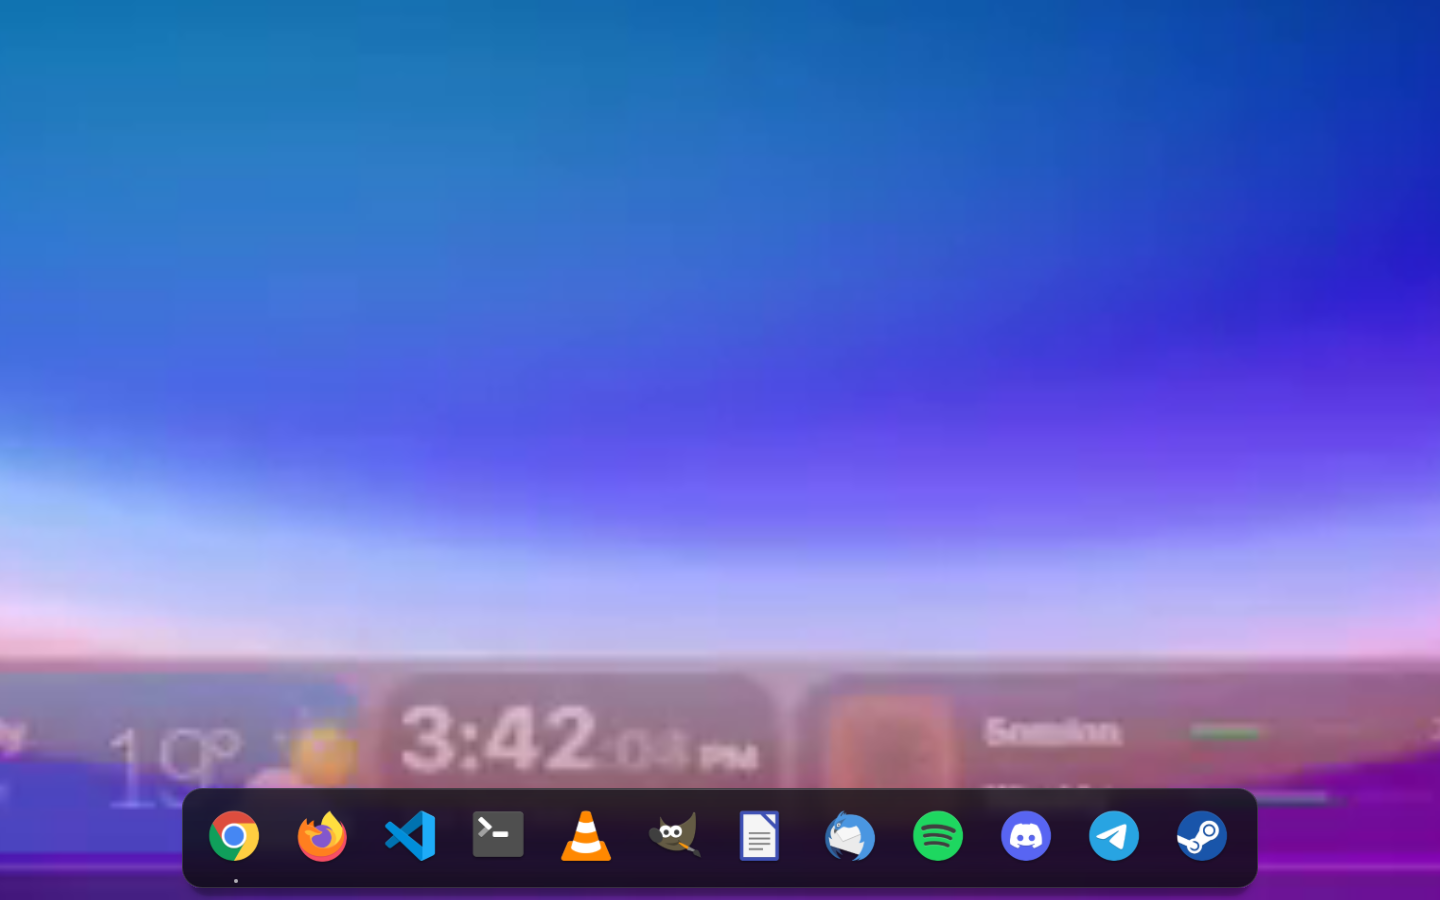
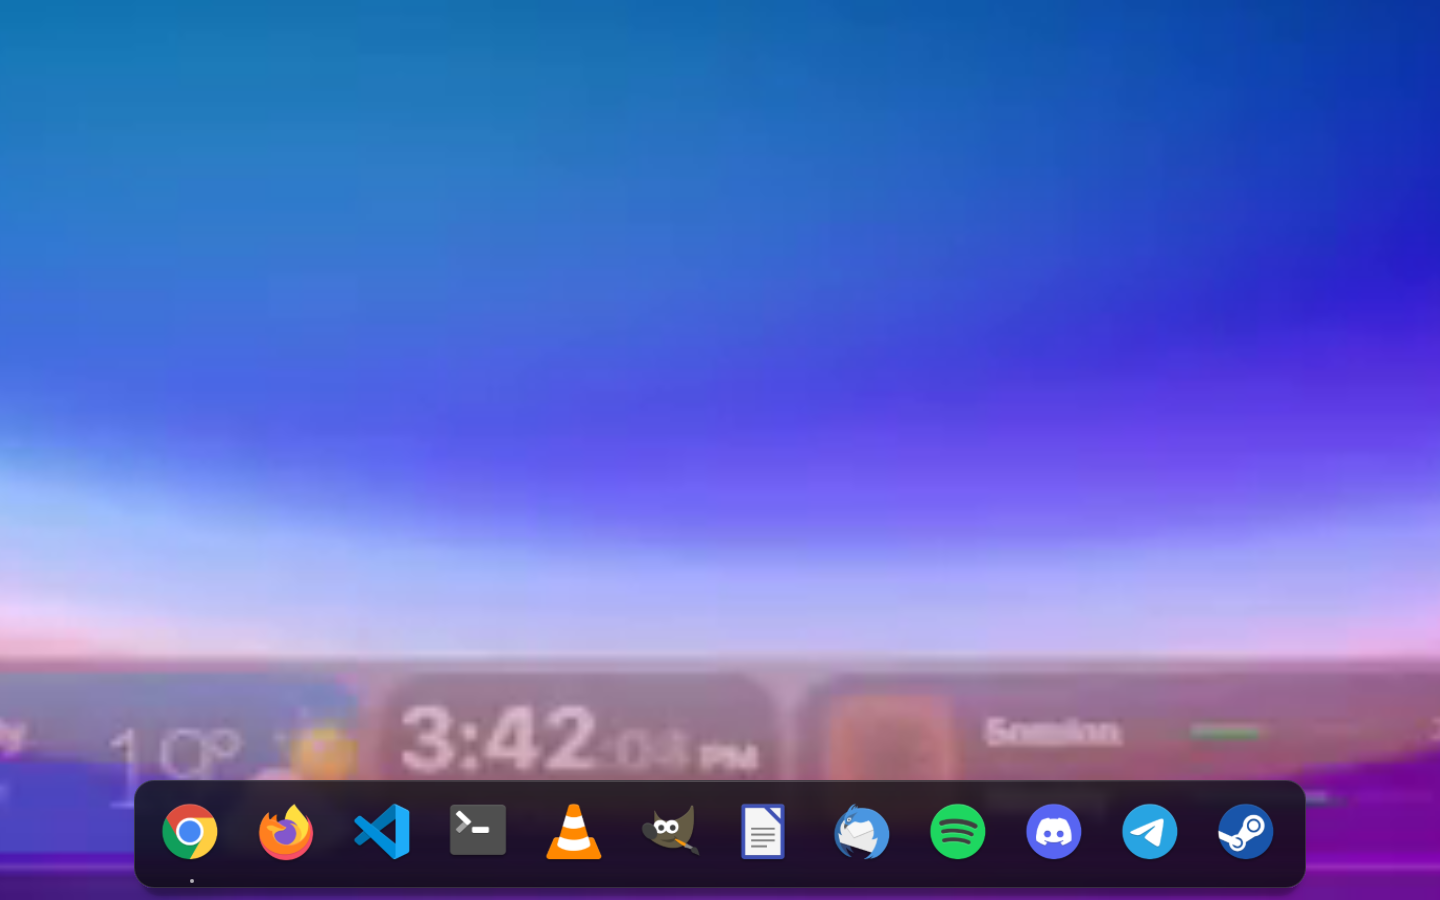
Dock: ikonlar 84 px, panel 108 px
- iconSize 76 -> 84, panel 100 -> 108 px; oran korundu.
- Komsu itme ve 12 px aralik aynen kaldi; panel icerikle birlikte buyuyor.
- kanit 01-02 basta olmak uzere 01-06 ve olcum yeni olculerle yenilendi.

Changed region(s): [[0.0938, 0.84, 0.9062, 0.9956]]

diff --git a/qml/Dock.qml b/qml/Dock.qml
@@ -10,12 +10,12 @@ Item {
     property string vurgu: "#8fb4ff"
 
     // Referans olculeri: ikon 56, panel 76, yan 12, ara 8, alt bosluk 10.
-    readonly property real ikonBoyut: ayar ? ayar.iconSize : 76
+    readonly property real ikonBoyut: ayar ? ayar.iconSize : 84
     readonly property real buyutmeCarpan: ayar ? ayar.buyutme : 1.9
     readonly property real bosluk: 12
     readonly property real yanBosluk: 16
     readonly property real icBosluk: Math.round((panelYukseklik - ikonBoyut) / 2)
-    readonly property real panelYukseklik: 100
+    readonly property real panelYukseklik: 108
     readonly property real altPay: 12
     readonly property real hucreYuksekligi: Math.round(ikonBoyut * buyutmeCarpan)
     readonly property real tabanGenislik: ikonSayisi > 0

diff --git a/dock/ana.py b/dock/ana.py
@@ -36,7 +36,7 @@ KOK = Path(__file__).resolve().parent.parent
 
 _ALAN_BOSLUK = 12
 _YAN_BOSLUK = 16
-_PANEL_YUKSEKLIK = 100
+_PANEL_YUKSEKLIK = 108
 _PANEL_DIKEY_BOSLUK = 12
 _ALT_PAY = 12
 # Pencere opak: buyuyen ikonlar icin panel ustunde pay, golge icin altta 10 px.

diff --git a/dock/ayarlar.py b/dock/ayarlar.py
@@ -7,7 +7,7 @@ from pathlib import Path
 
 VARSAYILAN = {
     "autoHide": False,
-    "iconSize": 76,
+    "iconSize": 84,
     "buyutme": 1.9,
     "kenarBosluk": 10,
     "sabitlenen": [],
